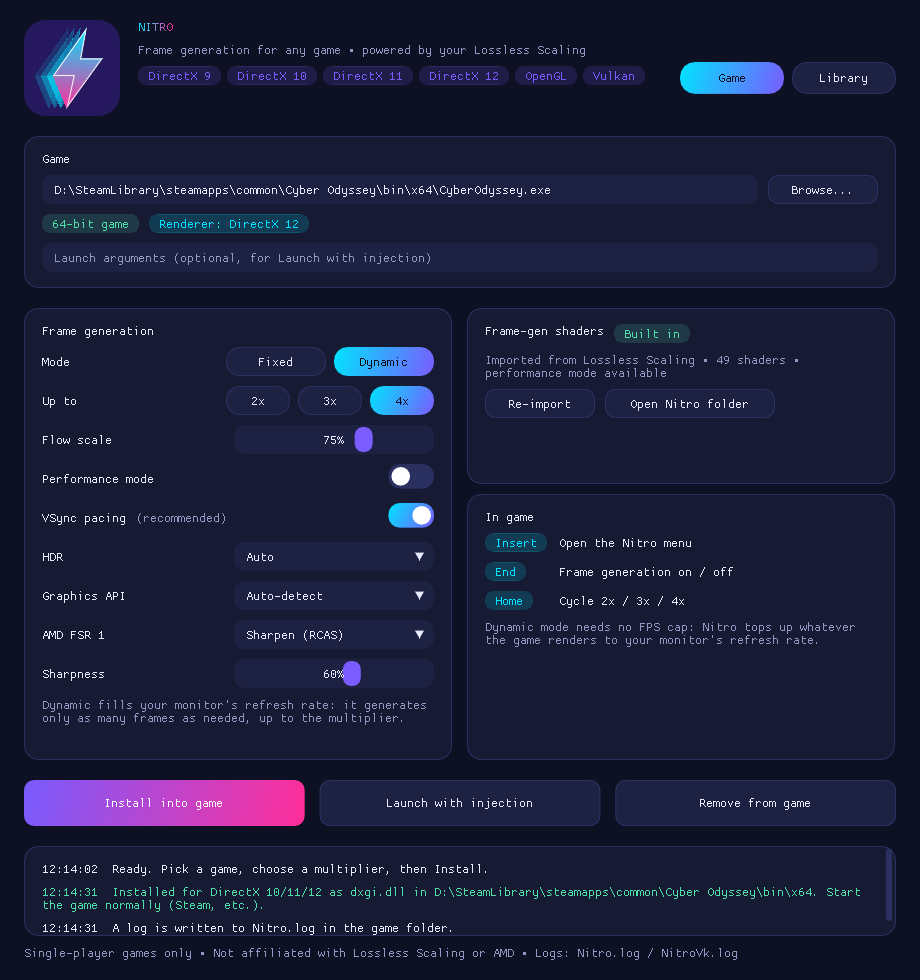
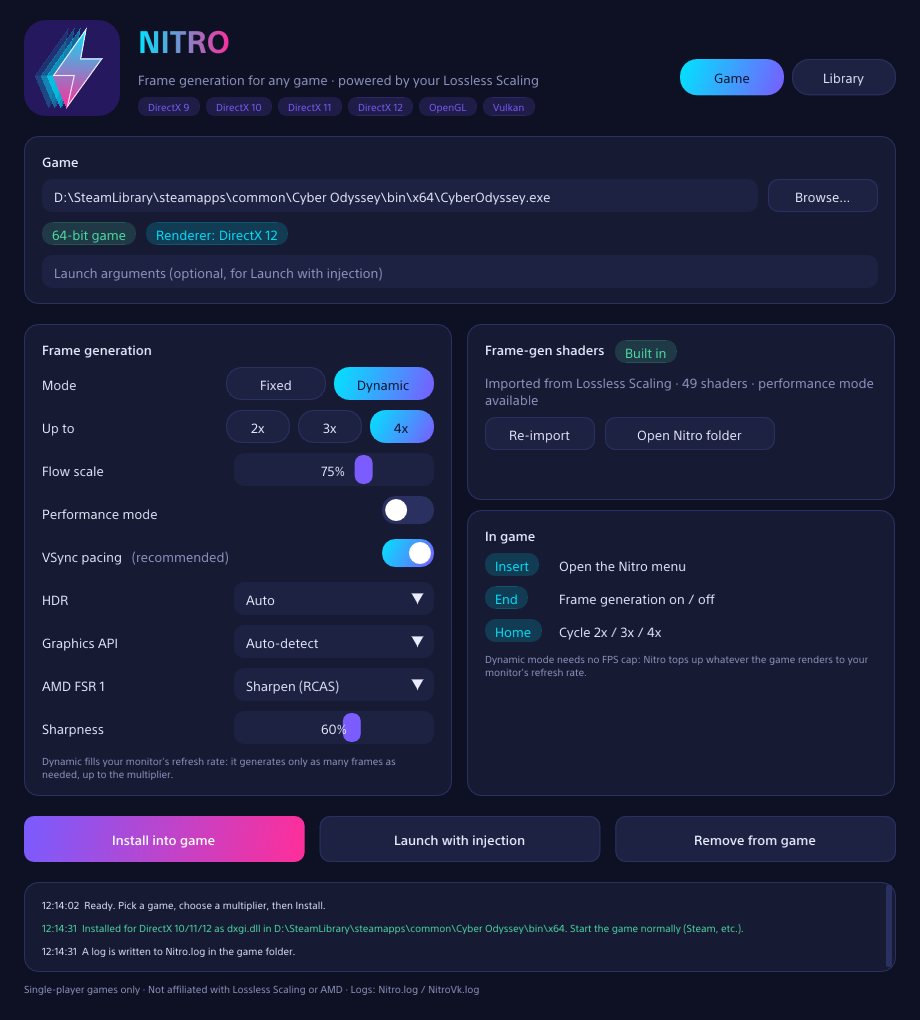
Use the SST typeface for the app and in-game menu
Nitro now looks for SST (SSTRg / SSTMedium / SSTBold) in a Fonts folder
next to Nitro, the user's and Windows' font folders, and falls back to
Segoe UI. SST isn't redistributable, so it's gitignored and not shipped;
the release zip gets an empty Fonts folder with instructions. Card
heights now fit the font's metrics.

Claude-Session: https://claude.ai/code/session_01PM9wMcbs7bnkQ174KKnMGH

diff --git a/core/nitro_ui.cpp b/core/nitro_ui.cpp
@@ -11,44 +11,128 @@
 
 #include <algorithm>
 #include <cstdio>
+#include <initializer_list>
 #include <string>
+#include <vector>
 
 namespace nitro_ui {
 
 namespace {
 
+std::vector<std::string> g_fontDirs; // extra folders from AddFontDir, searched first
+
 #ifdef _WIN32
-std::string FontPath(const char* file) {
-    char dir[MAX_PATH] = {};
-    GetWindowsDirectoryA(dir, MAX_PATH);
-    return std::string(dir) + "\\Fonts\\" + file;
+std::string Utf8(const std::wstring& w) {
+    if (w.empty()) return {};
+    const int n = WideCharToMultiByte(CP_UTF8, 0, w.c_str(), static_cast<int>(w.size()), nullptr, 0, nullptr, nullptr);
+    std::string s(static_cast<size_t>(n), '\0');
+    WideCharToMultiByte(CP_UTF8, 0, w.c_str(), static_cast<int>(w.size()), s.data(), n, nullptr, nullptr);
+    return s;
+}
+
+std::wstring Wide(const std::string& s) {
+    if (s.empty()) return {};
+    const int n = MultiByteToWideChar(CP_UTF8, 0, s.c_str(), static_cast<int>(s.size()), nullptr, 0);
+    std::wstring w(static_cast<size_t>(n), L'\0');
+    MultiByteToWideChar(CP_UTF8, 0, s.c_str(), static_cast<int>(s.size()), w.data(), n);
+    return w;
 }
 
 bool Exists(const std::string& p) {
-    return GetFileAttributesA(p.c_str()) != INVALID_FILE_ATTRIBUTES;
-}
-#else
-// Non-Windows builds (UI previews only): fonts come from NITRO_FONT_DIR.
-std::string FontPath(const char* file) {
-    const char* dir = std::getenv("NITRO_FONT_DIR");
-    return std::string(dir ? dir : ".") + "/" + file;
+    const DWORD a = GetFileAttributesW(Wide(p).c_str());
+    return a != INVALID_FILE_ATTRIBUTES && !(a & FILE_ATTRIBUTE_DIRECTORY);
 }
 
+// Folder of the module this code is linked into (Nitro.exe or the hook DLL).
+std::string ModuleDir() {
+    HMODULE self = nullptr;
+    GetModuleHandleExW(GET_MODULE_HANDLE_EX_FLAG_FROM_ADDRESS | GET_MODULE_HANDLE_EX_FLAG_UNCHANGED_REFCOUNT,
+                       reinterpret_cast<LPCWSTR>(&ModuleDir), &self);
+    wchar_t path[MAX_PATH] = {};
+    GetModuleFileNameW(self, path, MAX_PATH);
+    std::wstring p = path;
+    const size_t slash = p.find_last_of(L"\\/");
+    return slash == std::wstring::npos ? std::string(".") : Utf8(p.substr(0, slash));
+}
+
+// Where fonts are looked for: AddFontDir folders, a Fonts folder next to
+// Nitro, fonts installed for this user, then the Windows font folder.
+std::vector<std::string> FontDirs() {
+    std::vector<std::string> dirs;
+    for (const std::string& d : g_fontDirs) {
+        dirs.push_back(d + "\\Fonts");
+        dirs.push_back(d);
+    }
+    const std::string mod = ModuleDir();
+    dirs.push_back(mod + "\\Fonts");
+    dirs.push_back(mod);
+    wchar_t buf[MAX_PATH] = {};
+    if (GetEnvironmentVariableW(L"LOCALAPPDATA", buf, MAX_PATH))
+        dirs.push_back(Utf8(buf) + "\\Microsoft\\Windows\\Fonts");
+    GetWindowsDirectoryW(buf, MAX_PATH);
+    dirs.push_back(Utf8(buf) + "\\Fonts");
+    return dirs;
+}
+const char kSep = '\\';
+#else
+// Non-Windows builds (UI previews only): fonts come from NITRO_FONT_DIR.
 bool Exists(const std::string& p) {
     struct stat st {};
     return stat(p.c_str(), &st) == 0;
 }
+
+std::vector<std::string> FontDirs() {
+    std::vector<std::string> dirs = g_fontDirs;
+    const char* dir = std::getenv("NITRO_FONT_DIR");
+    dirs.push_back(dir ? dir : ".");
+    return dirs;
+}
+const char kSep = '/';
 #endif
 
+std::string FindFont(const char* file) {
+    for (const std::string& d : FontDirs()) {
+        const std::string p = d + kSep + file;
+        if (Exists(p)) return p;
+    }
+    return {};
+}
+
+const ImWchar kRanges[] = {0x0020, 0x00FF, 0x2013, 0x2026, 0x2190, 0x2193, 0x00D7, 0x00D7, 0};
+
 ImFont* Load(const char* file, float px) {
-    ImGuiIO& io = ImGui::GetIO();
-    const std::string path = FontPath(file);
-    if (!Exists(path)) return nullptr;
+    const std::string path = FindFont(file);
+    if (path.empty()) return nullptr;
     ImFontConfig cfg;
     cfg.OversampleH = 2;
     cfg.OversampleV = 2;
-    static const ImWchar ranges[] = {0x0020, 0x00FF, 0x2013, 0x2026, 0x2190, 0x2193, 0x00D7, 0x00D7, 0};
-    return io.Fonts->AddFontFromFileTTF(path.c_str(), px, &cfg, ranges);
+    return ImGui::GetIO().Fonts->AddFontFromFileTTF(path.c_str(), px, &cfg, kRanges);
+}
+
+// SST has no arrow glyphs; borrow them from Segoe UI when it's there.
+void MergeFallback(float px) {
+    const std::string path = FindFont("segoeui.ttf");
+    if (path.empty()) return;
+    static const ImWchar arrows[] = {0x2190, 0x2193, 0};
+    ImFontConfig cfg;
+    cfg.MergeMode = true;
+    cfg.OversampleH = 2;
+    cfg.OversampleV = 2;
+    ImGui::GetIO().Fonts->AddFontFromFileTTF(path.c_str(), px, &cfg, arrows);
+}
+
+// Tries each file in turn (SST first, then Segoe UI).
+ImFont* LoadFirst(std::initializer_list<const char*> files, float px, bool* usedSst = nullptr) {
+    bool first = true;
+    for (const char* f : files) {
+        if (ImFont* font = Load(f, px)) {
+            if (first) MergeFallback(px);
+            if (usedSst) *usedSst = first;
+            return font;
+        }
+        first = false;
+    }
+    return nullptr;
 }
 
 ImU32 Mix(ImU32 a, ImU32 b, float t) {
@@ -59,15 +143,22 @@ ImU32 Mix(ImU32 a, ImU32 b, float t) {
 
 } // namespace
 
+void AddFontDir(const std::string& utf8Dir) {
+    if (!utf8Dir.empty()) g_fontDirs.push_back(utf8Dir);
+}
+
+// SST (Sony's PlayStation typeface) when its .ttf files are available,
+// otherwise Segoe UI, otherwise ImGui's built-in font. SST can't be shipped
+// with Nitro, so it's picked up from the user's own copy.
 Fonts LoadFonts(float px) {
     Fonts f;
-    f.body = Load("segoeui.ttf", px);
+    f.body = LoadFirst({"SSTRg.TTF", "segoeui.ttf"}, px, &f.sst);
     if (!f.body) f.body = ImGui::GetIO().Fonts->AddFontDefault();
-    f.bold = Load("seguisb.ttf", px);
+    f.bold = LoadFirst({f.sst ? "SSTMedium.TTF" : "seguisb.ttf", "seguisb.ttf"}, px);
     if (!f.bold) f.bold = f.body;
-    f.title = Load("segoeuib.ttf", px * 2.4f);
+    f.title = LoadFirst({f.sst ? "SSTBold.TTF" : "segoeuib.ttf", "segoeuib.ttf"}, px * 2.4f);
     if (!f.title) f.title = f.bold;
-    f.caption = Load("segoeui.ttf", px * 0.82f);
+    f.caption = LoadFirst({f.sst ? "SSTRg.TTF" : "segoeui.ttf", "segoeui.ttf"}, px * 0.82f);
     if (!f.caption) f.caption = f.body;
     ImGui::GetIO().FontDefault = f.body;
     return f;

diff --git a/launcher/main.cpp b/launcher/main.cpp
@@ -1594,8 +1594,11 @@ void DrawUi() {
 
     // ---- Two columns
     const float colW = (avail - gap) * 0.5f;
-    const float colH = (ui.fsr ? 452 : 414) * s;
-    if (BeginCard("##fg", ImVec2(colW, colH))) {
+    // The left card fits its rows (font metrics differ between SST and Segoe
+    // UI); the right column matches its height from the previous frame.
+    static float fgH = 0.0f;
+    const float colH = (std::max)(fgH, 380 * s);
+    if (BeginCard("##fg", ImVec2(colW, 0))) {
         CardTitle("Frame generation");
         const float toggleW = ImGui::GetFrameHeight() * 0.85f * 1.85f;
         nitro_ui::RowLabel("Mode");
@@ -1690,6 +1693,7 @@ void DrawUi() {
         ImGui::PopFont();
     }
     ImGui::EndChild();
+    fgH = ImGui::GetItemRectSize().y;
     ImGui::SameLine(0, gap);
     ImGui::BeginGroup();
     const float lossH = 176 * s;
@@ -1807,7 +1811,7 @@ int WINAPI wWinMain(HINSTANCE inst, HINSTANCE, LPWSTR, int show) {
 
     const UINT dpi = GetDpiForSystem();
     g_scale = static_cast<float>(dpi) / 96.0f;
-    RECT rc{0, 0, static_cast<LONG>(920 * g_scale), static_cast<LONG>(980 * g_scale)};
+    RECT rc{0, 0, static_cast<LONG>(920 * g_scale), static_cast<LONG>(1020 * g_scale)};
     AdjustWindowRectExForDpi(&rc, WS_OVERLAPPEDWINDOW, FALSE, 0, dpi);
     g_wnd = CreateWindowExW(0, wc.lpszClassName, L"Nitro", WS_OVERLAPPEDWINDOW, CW_USEDEFAULT, CW_USEDEFAULT,
                             rc.right - rc.left, rc.bottom - rc.top, nullptr, nullptr, inst, nullptr);

diff --git a/core/overlay.cpp b/core/overlay.cpp
@@ -395,7 +395,19 @@ bool OverlayBegin(ID3D11Device* dev, ID3D11DeviceContext* ctx, HWND hwnd, UINT w
         RECT rc{};
         GetClientRect(hwnd, &rc);
         g_scale = std::clamp(static_cast<float>(rc.bottom - rc.top) / 1080.0f, 0.75f, 2.5f);
+        // Installed hooks live in the game folder; SST fonts sit in the Nitro
+        // folder, which is where Nitro.shaders is.
+        const std::wstring& shaders = G().cfg.shaders;
+        const size_t slash = shaders.find_last_of(L"\\/");
+        if (slash != std::wstring::npos) {
+            const std::wstring dir = shaders.substr(0, slash);
+            const int n = WideCharToMultiByte(CP_UTF8, 0, dir.c_str(), -1, nullptr, 0, nullptr, nullptr);
+            std::string utf8(static_cast<size_t>(n > 0 ? n - 1 : 0), '\0');
+            if (n > 1) WideCharToMultiByte(CP_UTF8, 0, dir.c_str(), -1, utf8.data(), n, nullptr, nullptr);
+            nitro_ui::AddFontDir(utf8);
+        }
         g_fonts = nitro_ui::LoadFonts(18.0f * g_scale);
+        Log("In-game menu font: %s", g_fonts.sst ? "SST" : "Segoe UI");
         nitro_ui::ApplyStyle(g_scale, 0.96f);
         InstallCursorHooks();
         Log("In-game menu ready");

diff --git a/core/nitro_ui.h b/core/nitro_ui.h
@@ -3,6 +3,8 @@
 
 #include <imgui.h>
 
+#include <string>
+
 namespace nitro_ui {
 
 // Palette (matches the logo)
@@ -20,9 +22,14 @@ struct Fonts {
     ImFont* bold = nullptr;
     ImFont* title = nullptr;
     ImFont* caption = nullptr;
+    bool sst = false; // Sony's SST typeface was found and is in use
 };
 
-// Loads Segoe UI (falls back to ImGui's built-in font) at the given pixel size.
+// Adds a folder to search for fonts (its Fonts subfolder is searched too).
+void AddFontDir(const std::string& utf8Dir);
+
+// Loads SST if its .ttf files are found (a Fonts folder next to Nitro, or
+// installed in Windows), else Segoe UI, else ImGui's built-in font.
 Fonts LoadFonts(float px);
 void ApplyStyle(float scale, float windowAlpha = 1.0f);
 

diff --git a/README.md b/README.md
@@ -34,6 +34,7 @@ Powered by the frame-generation algorithm from your own copy of [Lossless Scalin
 - **Detects the game's graphics API automatically**, or you can pick it yourself
 - **Runs inside the game**: no window capture, no borderless-window requirement, no overlay app running alongside
 - **Two ways to load it:** install it once (works with Steam launches), or launch the game with Nitro injected
+- **SST interface** (Sony's PlayStation font) when you supply the font files, otherwise Segoe UI
 - **In-game menu** (<kbd>Insert</kbd>): change frame gen, the multiplier, flow scale, performance mode, VSync pacing, HDR and FSR live, see rendered and on-screen FPS, and save the settings as your default
 - **Live hotkeys:** <kbd>End</kbd> toggles frame gen, <kbd>Home</kbd> cycles 2x → 3x → 4x
 - **Quality & performance modes**, adjustable flow scale, HDR support
@@ -81,6 +82,10 @@ For **Upscale**, run the game **borderless or windowed** and set its resolution 
 
 > [!NOTE]
 > **Why not FSR 3?** FSR 3 (upscaling and frame generation) needs the game's motion vectors, depth buffer and an unjittered camera. Only the engine has those, so FSR 3 can't be bolted onto an arbitrary game the way FSR 1 and Lossless Scaling's frame gen can. For games that already support DLSS, FSR 2 or XeSS, [OptiScaler](https://github.com/optiscaler/OptiScaler) can swap in FSR 3; Nitro's frame gen works alongside it.
+
+### SST interface font
+
+Nitro's app and in-game menu use Sony's **SST** typeface (the PlayStation UI font) when they can find it, and fall back to Segoe UI otherwise. SST is a commercial font, so it isn't included. If you have a licensed copy, put `SSTRg.TTF`, `SSTMedium.TTF` and `SSTBold.TTF` in the `Fonts` folder next to `Nitro.exe` (or install SST in Windows), then restart Nitro and the game. `Nitro.log` says which font the in-game menu loaded.
 
 ### 32-bit games
 

diff --git a/THIRD_PARTY_NOTICES.md b/THIRD_PARTY_NOTICES.md
@@ -42,6 +42,10 @@ NitroVk.dll is built with the Khronos Vulkan headers (https://github.com/Khronos
 
 NitroHook.dll and NitroVk.dll (and their 32-bit versions) embed AMD FidelityFX FSR 1.0.2 (https://github.com/GPUOpen-Effects/FidelityFX-FSR): `ffx_a.h`, `ffx_fsr1.h` and the sample's `FSR_Pass.hlsl` (included in this repository as `core/shaders/fsr_pass.hlsl`). MIT licence, Copyright (c) 2021 Advanced Micro Devices, Inc. All rights reserved. The licence text is the MIT licence above, with AMD's copyright line.
 
+## SST typeface
+
+Nitro can display its interface in SST (Monotype for Sony). The font is not included in this repository or in Nitro's releases; Nitro only loads a copy the user supplies.
+
 ## Lossless Scaling
 
 Lossless Scaling and its shaders are the property of their developer. This project ships none of them; it reads them from the user's own Lossless.dll at runtime.
